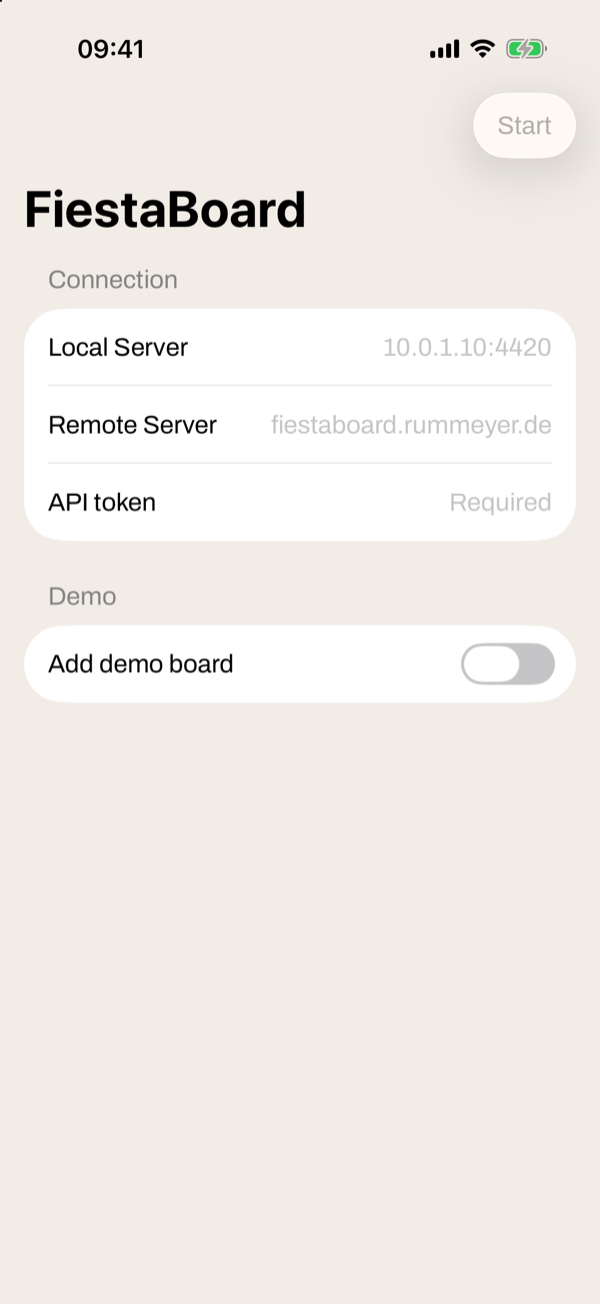
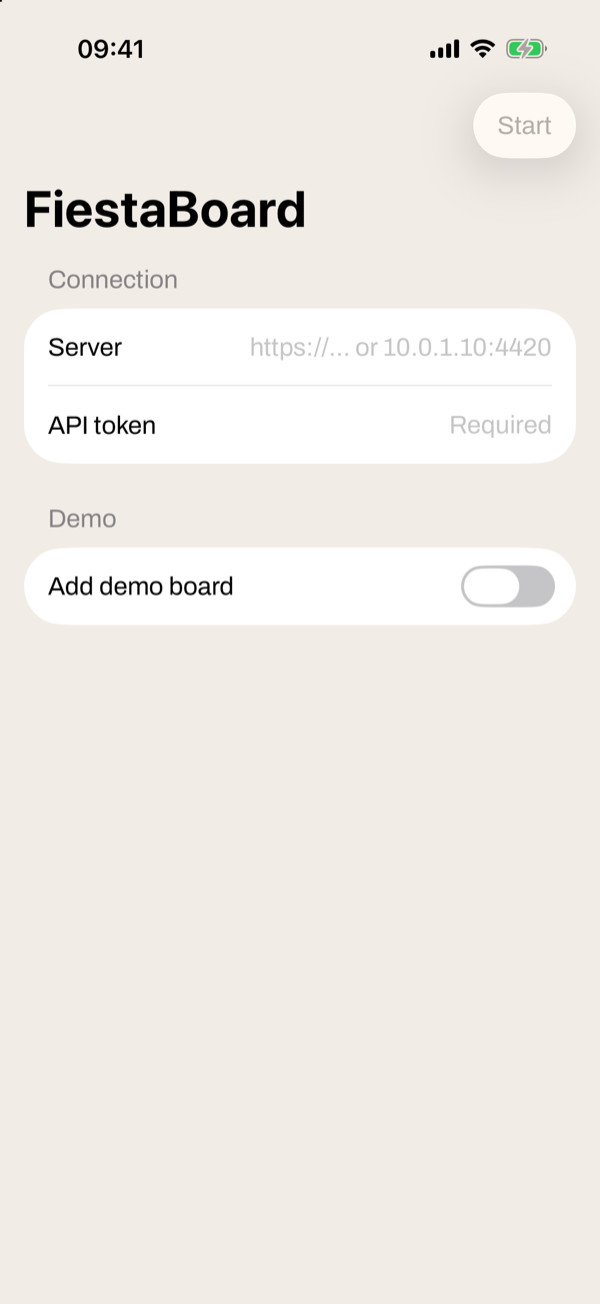
Revert "Local Server and Remote Server: FiestaBoard at home and from anywhere, the other tried when one cannot be reached"
This reverts commit 7334fef3bbd8a1562fb1e201d52d0b40495b1078.

diff --git a/FiestaBoard/SettingsView.swift b/FiestaBoard/SettingsView.swift
@@ -11,7 +11,6 @@ struct SettingsView: View {
     @Environment(TipJar.self) private var tips
     @Environment(\.dismiss) private var dismiss
     @State private var address = ""
-    @State private var localAddress = ""
     @State private var token = ""
     @State private var demoBoard = false
     @State private var looks: [String: BoardLook] = [:]
@@ -20,11 +19,11 @@ struct SettingsView: View {
 
     /// Something of FiestaBoard filled in, to be tried; nothing, for the demo board alone.
     private var withFiestaBoard: Bool {
-        [localAddress, address, token].contains { !$0.trimmingCharacters(in: .whitespaces).isEmpty }
+        !address.trimmingCharacters(in: .whitespaces).isEmpty || !token.trimmingCharacters(in: .whitespaces).isEmpty
     }
 
     private var canSave: Bool {
-        withFiestaBoard ? (!localAddress.isEmpty || !address.isEmpty) && !token.isEmpty : demoBoard
+        withFiestaBoard ? !address.isEmpty && !token.isEmpty : demoBoard
     }
 
     var body: some View {
@@ -33,28 +32,14 @@ struct SettingsView: View {
             Section {
                 // As iOS's own forms have it: the label on the left, what is typed on the right,
                 // in one line however long the address — it scrolls in its field rather than going below.
-                // One or both: at home the local server, from anywhere the remote one.
                 HStack(spacing: 16) {
-                    Text("Local Server").fixedSize()
-                    TextField(text: $localAddress) {
-                        Text(verbatim: "10.0.1.10:4420")
-                    }
-                    .keyboardType(.URL)
-                    .textContentType(.URL)
-                    .textInputAutocapitalization(.never)
-                    .autocorrectionDisabled()
-                    .multilineTextAlignment(.trailing)
-                }
-                HStack(spacing: 16) {
-                    Text("Remote Server").fixedSize()
-                    TextField(text: $address) {
-                        Text(verbatim: "fiestaboard.rummeyer.de")
-                    }
-                    .keyboardType(.URL)
-                    .textContentType(.URL)
-                    .textInputAutocapitalization(.never)
-                    .autocorrectionDisabled()
-                    .multilineTextAlignment(.trailing)
+                    Text("Server").fixedSize()
+                    TextField("https://… or 10.0.1.10:4420", text: $address)
+                        .keyboardType(.URL)
+                        .textContentType(.URL)
+                        .textInputAutocapitalization(.never)
+                        .autocorrectionDisabled()
+                        .multilineTextAlignment(.trailing)
                 }
                 HStack(spacing: 16) {
                     Text("API token").fixedSize()
@@ -132,7 +117,6 @@ struct SettingsView: View {
         }
         .onAppear {
             address = settings.address
-            localAddress = settings.localAddress
             token = settings.token
             demoBoard = settings.demoBoard
             looks = settings.looks
@@ -171,11 +155,11 @@ struct SettingsView: View {
         }
     }
 
-    /// FiestaBoard kept only once it has answered with this token, at one of its addresses; nothing of it, for the demo board alone.
+    /// FiestaBoard kept only once it has answered with this token; nothing of it, for the demo board alone.
     private func save() {
         problem = nil
         guard withFiestaBoard else {
-            settings.save(local: "", remote: "", token: "")
+            settings.save(address: "", token: "")
             settings.demoBoard = demoBoard
             settings.looks = looks
             close()
@@ -185,12 +169,9 @@ struct SettingsView: View {
         Task {
             defer { checking = false }
             do {
-                // Kept once one of them answers: at home the local one, away the remote one.
-                guard let servers = try FiestaBoardServers(local: localAddress, remote: address, token: token) else {
-                    throw APIError.badAddress
-                }
-                _ = try await servers.boards()
-                settings.save(local: localAddress, remote: address, token: token)
+                let api = try FiestaBoardAPI(address: address, token: token)
+                _ = try await api.boards()
+                settings.save(address: address, token: token)
                 settings.demoBoard = demoBoard
                 settings.looks = looks
                 close()

diff --git a/FiestaBoard/Settings.swift b/FiestaBoard/Settings.swift
@@ -2,22 +2,17 @@ import Foundation
 import Observation
 import Security
 
-/// Where FiestaBoard is and the token for it — its addresses in the defaults,
+/// Where FiestaBoard is and the token for it — the address in the defaults,
 /// the token in the Keychain, as it opens everything the API can do — and
 /// whether the demo board is there beside its boards, or instead of them.
 @MainActor @Observable
 final class Settings {
-    /// The remote server's: once the only address, which may have been the local one.
     private static let addressKey = "serverAddress"
-    private static let localKey = "localServerAddress"
     private static let tokenAccount = "apiToken"
     private static let demoKey = "demoBoard"
     private static let looksKey = "boardLooks"
 
-    /// FiestaBoard from anywhere, over HTTPS.
     var address: String
-    /// FiestaBoard on the home network: tried when the remote server cannot be reached.
-    var localAddress: String
     var token: String
     /// The board simulated in the app, beside FiestaBoard's or alone.
     var demoBoard: Bool {
@@ -41,20 +36,11 @@ final class Settings {
     init() {
         // The demo shows none of the real address or token.
         address = Demo.on ? "" : UserDefaults.standard.string(forKey: Self.addressKey) ?? ""
-        localAddress = Demo.on ? "" : UserDefaults.standard.string(forKey: Self.localKey) ?? ""
         token = Demo.on ? "" : Keychain.read(Self.tokenAccount) ?? ""
         // The sample screenshots are on the demo board alone, but their first start shows it off.
         demoBoard = Demo.on ? !Demo.settings : UserDefaults.standard.bool(forKey: Self.demoKey)
         looks = Demo.on ? [:] : UserDefaults.standard.data(forKey: Self.looksKey)
             .flatMap { try? JSONDecoder().decode([String: BoardLook].self, from: $0) } ?? [:]
-        // The one address of before, at home: the local server's now.
-        if localAddress.isEmpty, let host = (try? FiestaBoardAPI(address: address, token: ""))?.base.host(percentEncoded: false),
-           FiestaBoardAPI.isLocal(host) {
-            localAddress = address
-            address = ""
-            UserDefaults.standard.set(localAddress, forKey: Self.localKey)
-            UserDefaults.standard.set(address, forKey: Self.addressKey)
-        }
     }
 
     /// A FiestaBoard to talk to: an address that will do, and a token.
@@ -62,8 +48,8 @@ final class Settings {
         fiestaBoard != nil
     }
 
-    var fiestaBoard: FiestaBoardServers? {
-        token.isEmpty ? nil : (try? FiestaBoardServers(local: localAddress, remote: address, token: token)) ?? nil
+    var fiestaBoard: FiestaBoardAPI? {
+        token.isEmpty ? nil : try? FiestaBoardAPI(address: address, token: token)
     }
 
     /// Something to show: FiestaBoard's boards, the demo board, or both.
@@ -85,12 +71,10 @@ final class Settings {
         return fiestaBoard
     }
 
-    func save(local: String, remote: String, token: String) {
-        localAddress = local.trimmingCharacters(in: .whitespacesAndNewlines)
-        address = remote.trimmingCharacters(in: .whitespacesAndNewlines)
+    func save(address: String, token: String) {
+        self.address = address.trimmingCharacters(in: .whitespacesAndNewlines)
         self.token = token.trimmingCharacters(in: .whitespacesAndNewlines)
-        UserDefaults.standard.set(localAddress, forKey: Self.localKey)
-        UserDefaults.standard.set(address, forKey: Self.addressKey)
+        UserDefaults.standard.set(self.address, forKey: Self.addressKey)
         Keychain.write(self.token, for: Self.tokenAccount)
     }
 }

diff --git a/FiestaBoard/API.swift b/FiestaBoard/API.swift
@@ -70,8 +70,6 @@ enum APIError: LocalizedError {
 struct FiestaBoardAPI: Sendable {
     let base: URL
     let token: String
-    /// Seconds to wait for an answer.
-    var timeout: TimeInterval = 20
 
     /// From what was typed in, with or without a trailing /api: https anywhere,
     /// http only to an address on the home network or reached through a VPN, as
@@ -176,7 +174,7 @@ struct FiestaBoardAPI: Sendable {
     private func call<T: Decodable>(_ method: String, _ path: String, body: Body? = nil) async throws -> T {
         var request = URLRequest(url: base.appending(path: path))
         request.httpMethod = method
-        request.timeoutInterval = timeout
+        request.timeoutInterval = 20
         request.setValue("application/json", forHTTPHeaderField: "Accept")
         if !token.isEmpty {
             request.setValue("Bearer \(token)", forHTTPHeaderField: "Authorization")

diff --git a/FiestaBoard/HomeView.swift b/FiestaBoard/HomeView.swift
@@ -105,7 +105,7 @@ struct HomeView: View {
             .environment(settings)
         }
         // Read again now and every so often while open; stopped in the background.
-        .task(id: "\(boardID)|\(scenePhase == .active)|\(settings.address)|\(settings.localAddress)|\(settings.token)|\(settings.demoBoard)") {
+        .task(id: "\(boardID)|\(scenePhase == .active)|\(settings.address)|\(settings.token)|\(settings.demoBoard)") {
             guard scenePhase == .active else {
                 return
             }

diff --git a/README.md b/README.md
@@ -36,7 +36,7 @@
   &nbsp;
   <picture>
     <source media="(prefers-color-scheme: dark)" srcset="docs/screenshots/settings-dark.png">
-    <img src="docs/screenshots/settings-light.png" alt="The first start: Connection, with the local server, the remote server and the API token, and Demo, to add the demo board" width="200">
+    <img src="docs/screenshots/settings-light.png" alt="The first start: Connection, with FiestaBoard's address and the API token, and Demo, to add the demo board" width="200">
   </picture>
 </p>
 
@@ -79,11 +79,9 @@ It talks to nothing but your FiestaBoard, over its public API (`/api/v1`), with 
 
 The app takes an `https://` address from anywhere, and a plain `http://` one only where it cannot be reached from the internet: 10.x, 172.16–31.x, 192.168.x, 100.64–127.x (Tailscale's range), a `.local` name, a name without a dot, or a private IPv6 address. Typed without `http://` or `https://`, an address gets the one that fits.
 
-Settings has two: **Local Server**, FiestaBoard's address at home, and **Remote Server**, its address from anywhere. One is enough; with both, the app asks the one that answered last and, when that one cannot be reached, the other — at home the local server, away the remote one, with nothing to switch. A router seldom lets a phone at home reach its own public address, so the remote server alone often does not work on the home Wi‑Fi.
-
 ### At home
 
-As **Local Server**, FiestaBoard's address on your network, such as `10.0.1.10:4420`. The first time, iOS asks whether the app may use the local network; allow it.
+FiestaBoard's address on your network, such as `10.0.1.10:4420`. The first time, iOS asks whether the app may use the local network; allow it.
 
 ### Through a VPN
 

diff --git a/CHANGELOG.md b/CHANGELOG.md
@@ -8,10 +8,6 @@ adheres to [semantic versioning](https://semver.org/spec/v2.0.0.html).
 
 ### Added
 
-- Local Server and Remote Server in Settings: FiestaBoard at home and from
-  anywhere, the one that answered last asked first, the other when it
-  cannot be reached. An address from before that is a home one becomes the
-  local server.
 - Tips, in Settings under Donation: two coffees through In-App Purchase,
   and a StoreKit configuration to try them from Xcode.
 - Buy Me a Coffee in the README.
